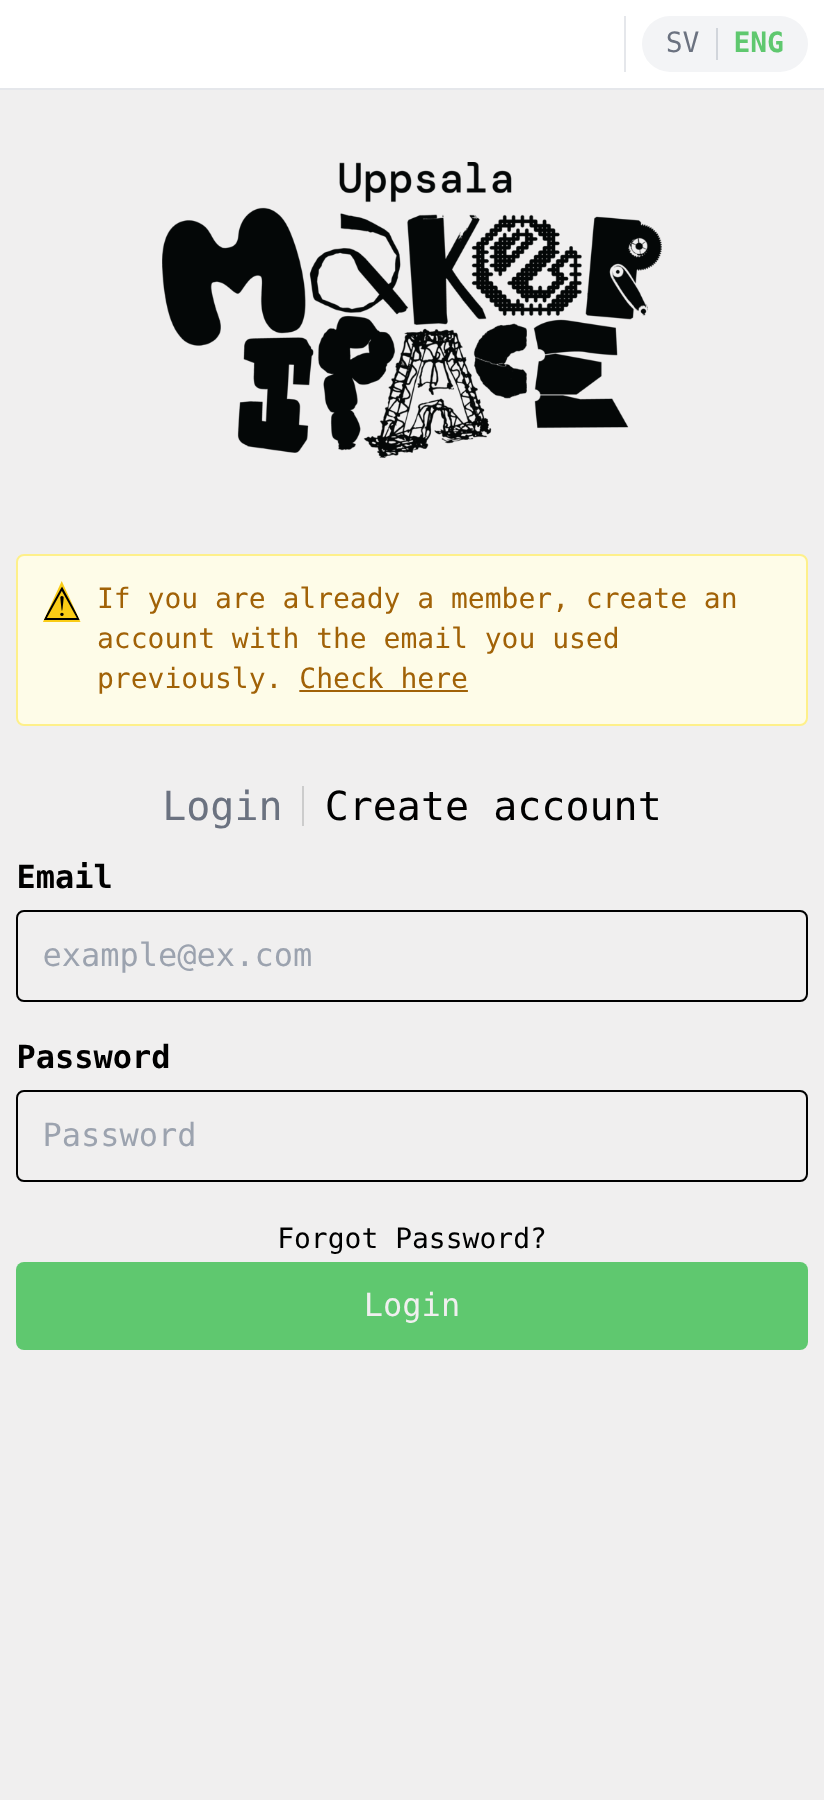
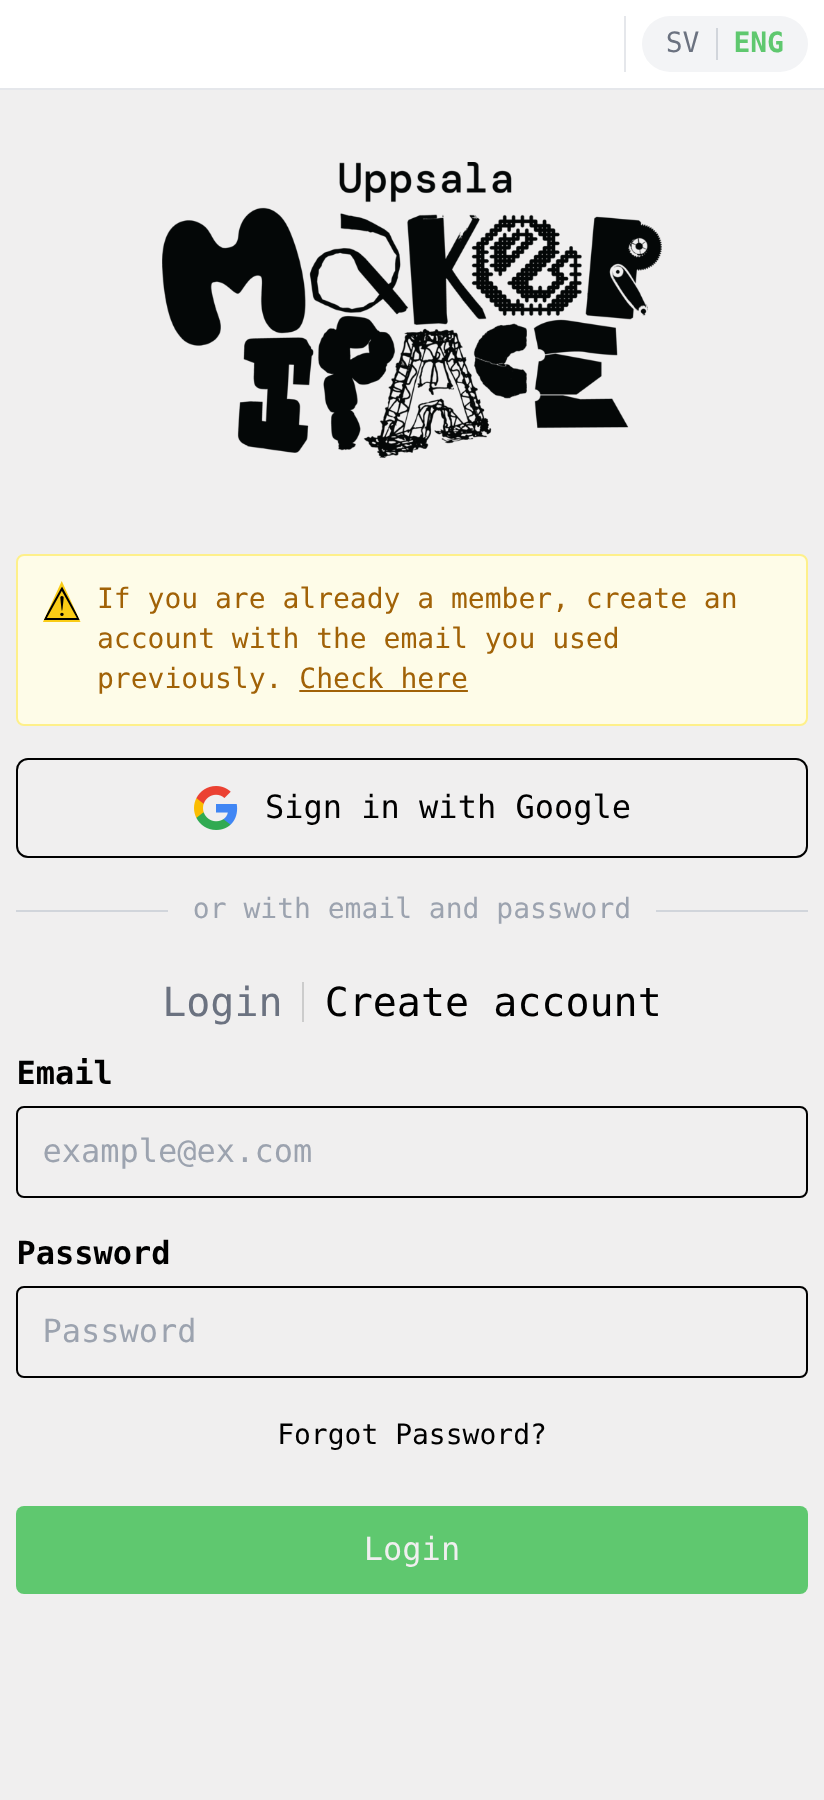
Tutorial: login and register screens with Google at the top
Retakes the four login and register screenshots for the new layout. The
onboarding stories now pass a Google login, as production has it, so the
frames show the button and divider at all. The guides for new and
existing members name the button "Logga in med Google" / "Sign in with
Google" and say it is at the top.

diff --git a/tutorial/stories/Onboarding.stories.jsx b/tutorial/stories/Onboarding.stories.jsx
@@ -25,14 +25,18 @@ const minimalShell = {
 // Filename: login-{lang}.png
 export const Login = {
   render: (args) => <LoginPage {...args} />,
-  args: { onSubmit: fn() },
+  // Google is on in production (Facebook is not), so the frame shows its
+  // button above the tabs.
+  args: { onSubmit: fn(), google: { method: fn() } },
   parameters: { tutorial: { ...minimalShell, path: "/login", file: "login" } },
 };
 
 // Filename: register-{lang}.png
 export const Register = {
   render: (args) => <RegisterPage {...args} />,
-  args: { onSubmit: fn() },
+  // Google is on in production (Facebook is not), so the frame shows its
+  // button above the tabs.
+  args: { onSubmit: fn(), google: { method: fn() } },
   parameters: { tutorial: { ...minimalShell, path: "/register", file: "register" } },
 };
 

diff --git a/tutorial/sv/existingMembers.md b/tutorial/sv/existingMembers.md
@@ -16,7 +16,7 @@ Skriv in den e-postadress du tror att du använde när du blev medlem. Om den fi
 
 När du har bekräftat vilken e-post som finns i registret går du tillbaka till inloggningssidan och trycker på **Skapa konto**. Använd samma e-post — det är så appen kopplar ihop ditt nya konto med ditt befintliga medlemskap.
 
-Välj ett lösenord och tryck på **Skapa konto**. (Eller välj **Fortsätt med Google** om e-posten i registret är ett Google-konto — då loggas du in utan lösenord.)
+Välj ett lösenord och tryck på **Skapa konto**. (Eller välj **Logga in med Google** överst om e-posten i registret är ett Google-konto — då loggas du in utan lösenord.)
 
 ![Formulär för att skapa konto](../screens/register-sv.png)
 
@@ -24,7 +24,7 @@ Välj ett lösenord och tryck på **Skapa konto**. (Eller välj **Fortsätt med 
 
 Appen skickar en bekräftelselänk till din e-post. Öppna mejlet och klicka på länken för att aktivera kontot, och återvänd sedan till appen.
 
-> Om du använde **Fortsätt med Google** är din e-post redan verifierad — du kan hoppa över detta steg.
+> Om du använde **Logga in med Google** är din e-post redan verifierad — du kan hoppa över detta steg.
 
 ## 4. Godkänn ansvarsförbindelsen
 

diff --git a/tutorial/en/existingMembers.md b/tutorial/en/existingMembers.md
@@ -16,7 +16,7 @@ Enter the email address you think you used when signing up. If it matches, you'l
 
 Once you've confirmed which email is on file, go back to the login screen and tap **Create account**. Use the same email — that's how the app links your new account to your existing membership.
 
-Set a password and tap **Create account**. (Or use **Continue with Google** if the email on file is a Google account — that signs you in without a password.)
+Set a password and tap **Create account**. (Or use **Sign in with Google** at the top if the email on file is a Google account — that signs you in without a password.)
 
 ![Create account form](../screens/register-en.png)
 
@@ -24,7 +24,7 @@ Set a password and tap **Create account**. (Or use **Continue with Google** if t
 
 The app sends a verification link to your email. Open it and click the link to activate the account, then return to the app.
 
-> If you used **Continue with Google**, your email is already verified — you can skip this step.
+> If you used **Sign in with Google**, your email is already verified — you can skip this step.
 
 ## 4. Approve the liability agreement
 

diff --git a/tutorial/sv/newMembers.md b/tutorial/sv/newMembers.md
@@ -10,7 +10,7 @@ Skärmbilderna visar flödet för **Årligt Medlemskap Labb**. Om du istället v
 
 ![Inloggningssidan](../screens/login-sv.png)
 
-Fyll i din e-post, välj ett lösenord och bekräfta det. Tryck sedan på **Skapa konto**. (Du kan också använda **Fortsätt med Google** om du hellre vill logga in med ditt Google-konto.)
+Fyll i din e-post, välj ett lösenord och bekräfta det. Tryck sedan på **Skapa konto**. (Du kan också använda **Logga in med Google** överst om du hellre vill logga in med ditt Google-konto.)
 
 ![Formulär för att skapa konto](../screens/register-sv.png)
 
@@ -18,7 +18,7 @@ Fyll i din e-post, välj ett lösenord och bekräfta det. Tryck sedan på **Skap
 
 Appen skickar ett bekräftelsemejl till adressen du angav. Öppna mejlet och klicka på bekräftelselänken för att aktivera kontot, och återvänd sedan till appen.
 
-> Om du registrerade dig med **Fortsätt med Google** är din e-post redan verifierad — du kan hoppa över detta steg.
+> Om du registrerade dig med **Logga in med Google** är din e-post redan verifierad — du kan hoppa över detta steg.
 
 ## 3. Berätta om dig själv
 

diff --git a/tutorial/en/newMembers.md b/tutorial/en/newMembers.md
@@ -10,7 +10,7 @@ Open the app. You'll land on the login screen. Tap **Create account** to switch 
 
 ![Login screen](../screens/login-en.png)
 
-Enter your email, choose a password, and confirm it. Then tap **Create account**. (You can also use **Continue with Google** if you'd rather sign in with your Google account.)
+Enter your email, choose a password, and confirm it. Then tap **Create account**. (You can also use **Sign in with Google** at the top if you'd rather sign in with your Google account.)
 
 ![Create account form](../screens/register-en.png)
 
@@ -18,7 +18,7 @@ Enter your email, choose a password, and confirm it. Then tap **Create account**
 
 The app will send a verification email to the address you used. Open it and click the verification link to activate the account, then return to the app.
 
-> If you signed up with **Continue with Google**, your email is already verified — you can skip this step.
+> If you signed up with **Sign in with Google**, your email is already verified — you can skip this step.
 
 ## 3. Tell us about yourself
 
